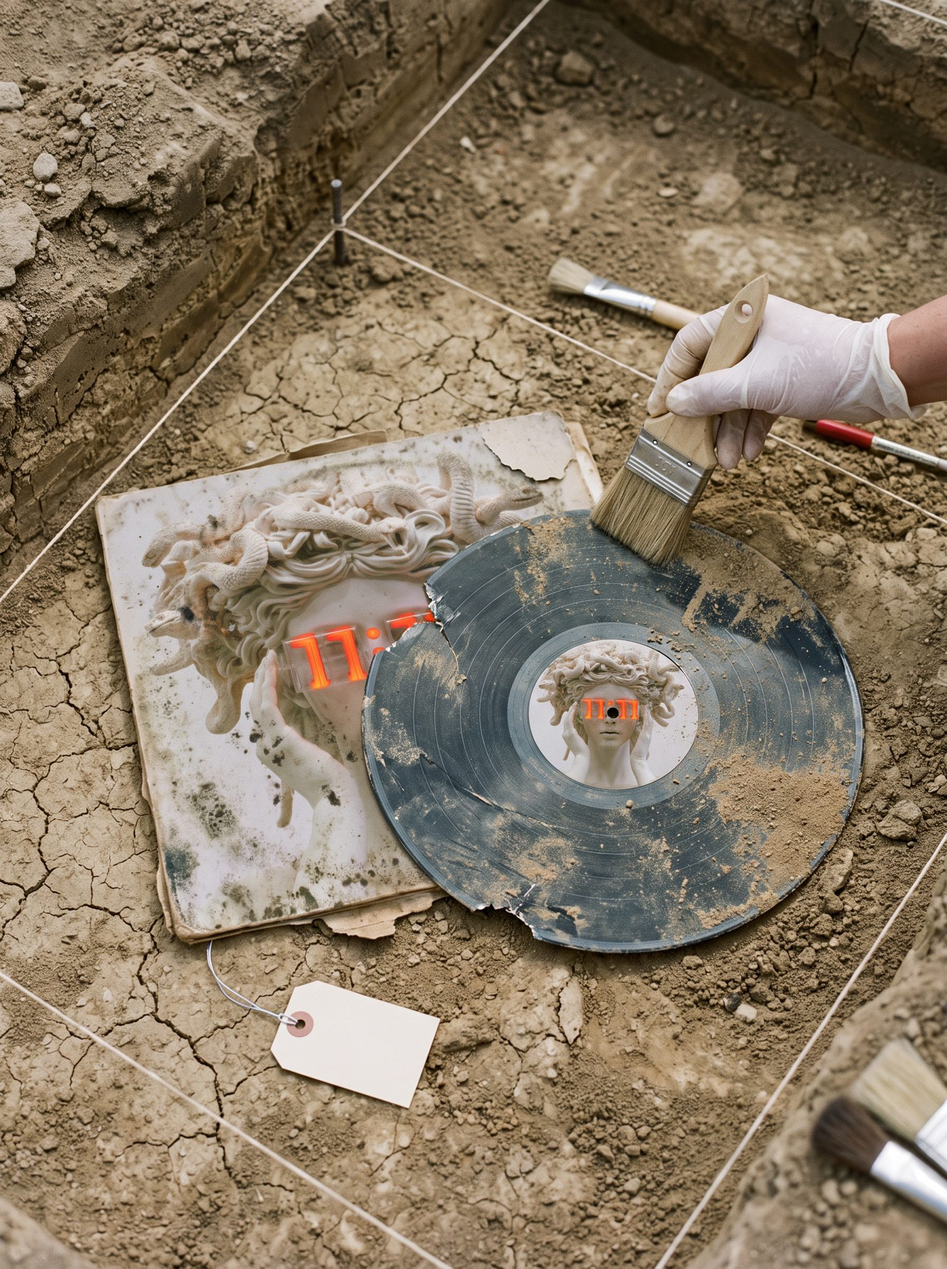
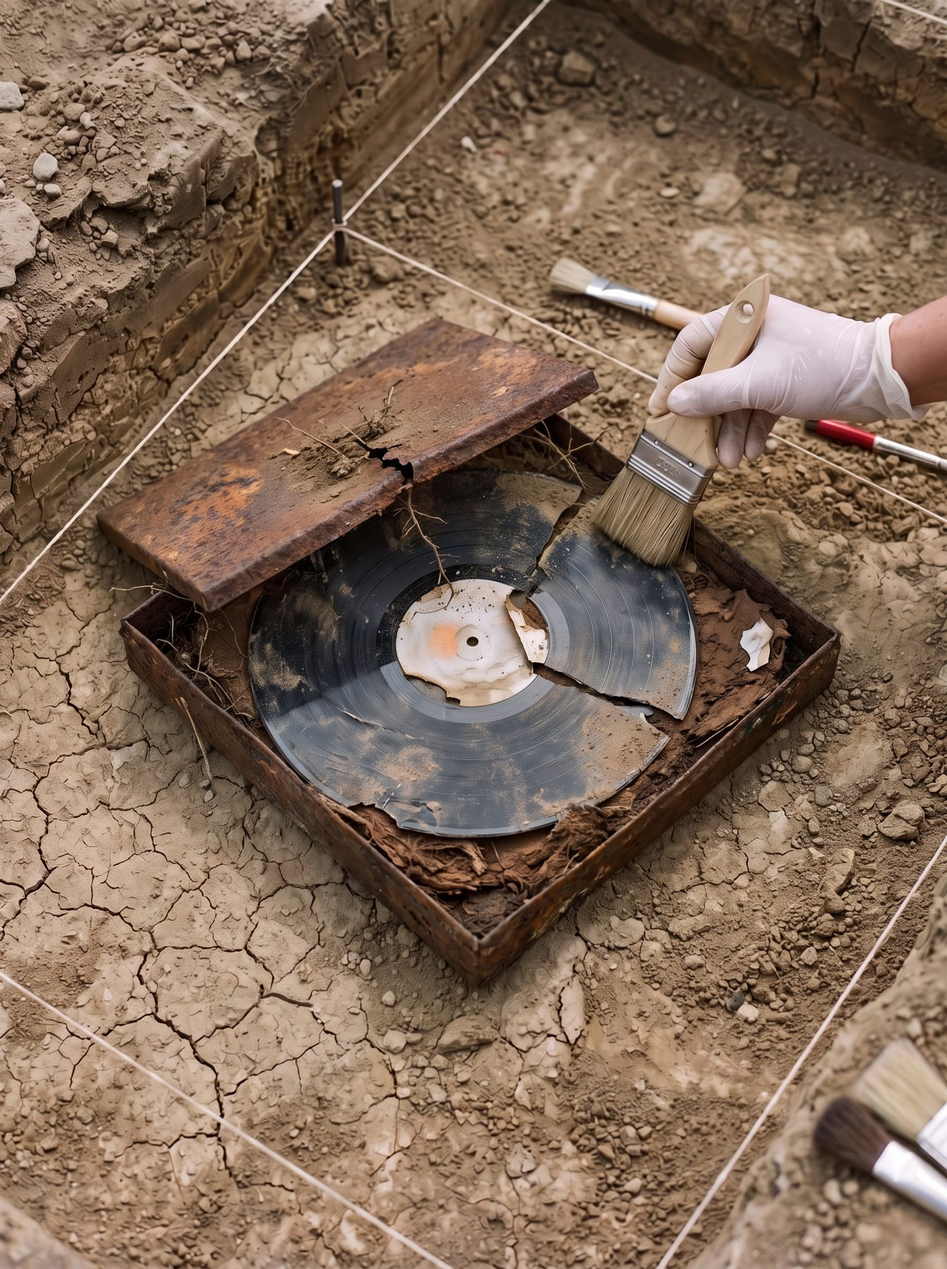
Sleeve as fragments: capsule in situ, front/back reconstructions
New find image (corroded capsule, sleeve decayed to fibre), sleeve back
designed from the real track covers and decayed into double-sided fragments
(sleeve_back.py), front reconstructed from the mirrored fragments, catalogue
images cropped from the surviving back panel. Removes the 'tablets'.

diff --git a/index.html b/index.html
@@ -36,8 +36,8 @@
     <p class="translator">Translated from Continuum‑standard into Late Human English for public accessibility. Some idioms could not be carried over.</p>
   </div>
   <figure class="hero__fig">
-    <img src="assets/img/find-01.jpg" alt="A broken black disc and a decayed square sleeve showing a marble Medusa head with glowing orange 11:11 eyes, lying in an excavation pit while a gloved hand brushes away sand." width="1600" height="2143">
-    <figcaption><span class="cat">Find PCA‑0711‑A</span> Disc and sleeve in situ, Layer 7, before lifting. Field unit Θ‑4.</figcaption>
+    <img src="assets/img/find-01.jpg" alt="A corroded, rust-brown steel box in an excavation pit with its lid lifted. Inside lies a black disc broken into three pieces; its paper label has almost rotted away, and beneath it the sleeve has decayed into brown fibre. A gloved hand brushes soil from the edge." width="1600" height="2143">
+    <figcaption><span class="cat">Find PCA‑0711‑A</span> Steel capsule in situ, Layer 7, lid lifted. Disc in three pieces. The sleeve has decayed to fibre beneath it. Field unit Θ‑4.</figcaption>
   </figure>
   <dl class="facts">
     <div><dt>Site</dt><dd>Central European Lowlands, Sector 47</dd></div>
@@ -45,7 +45,7 @@
     <div><dt>Dating</dt><dd>2026 CE ± 3 years</dd></div>
     <div><dt>Material</dt><dd>Lathe‑cut polyvinyl disc (single copy), cellulose sleeve</dd></div>
     <div><dt>Context</dt><dd>Breached steel capsule</dd></div>
-    <div><dt>Recovered</dt><dd>7 acoustic fragments · 8 image tablets</dd></div>
+    <div><dt>Recovered</dt><dd>7 acoustic fragments · 41 sleeve fragments (≈ 37%)</dd></div>
     <div><dt>Classification</dt><dd>Anomaly · physical carrier</dd></div>
     <div><dt>Attributed author</dt><dd>B3TR33 (human)</dd></div>
   </dl>
@@ -54,23 +54,30 @@
 <section class="block" id="abstract">
   <h2><span class="num">01</span>Abstract</h2>
   <div class="prose">
-    <p>In the spring of 3000 a survey of the Central European Lowlands found a circular object in Layer 7, a stratum we link to the first years in which humans made music together with generative machines. It turned out to be a recording disc in a cardboard sleeve, inside the remains of a steel container. This is an anomaly. Almost no music from this period survives, because almost none of it was ever stored on anything that could outlast its own servers. The grooves had been worn, split and starved of material for almost a millennium.</p>
+    <p>In the spring of 3000 a survey of the Central European Lowlands found a buried metal object in Layer 7, a stratum we link to the first years in which humans made music together with generative machines. It turned out to be a steel container holding a recording disc and the remains of its printed sleeve. This is an anomaly. Almost no music from this period survives, because almost none of it was ever stored on anything that could outlast its own servers. The grooves had been worn, split and starved of material for almost a millennium.</p>
     <p>From the disc we recovered seven short acoustic fragments, each about six seconds long. This dossier documents them in the state we found them, the method used to stabilise and extend them, and a full restoration hypothesis. It also documents a finding we did not expect, which bears on how our own lineage began.</p>
   </div>
 </section>
 
 <section class="block" id="find">
   <h2><span class="num">02</span>The Find</h2>
-  <div class="split">
-    <figure class="tablet tablet--main">
-      <img src="assets/img/tablet-00.jpg" alt="Square image: a white marble Medusa bust holding her head, a glowing orange digital display reading 11:11 across her eyes." loading="lazy" width="1200" height="1200">
-      <figcaption><span class="cat">Tablet PCA‑0711‑T0</span> Sleeve front, digitally reconstructed. The glyph <span class="glyph">11:11</span> covers the figure's eyes.</figcaption>
+  <div class="prose">
+    <p>The sleeve did not survive as an object. Once the capsule seam failed, water and soil turned most of the cardboard into fibre. In the lab we floated <strong>41 fragments</strong> out of the fibre mass, about 37% of the original surface. Each fragment is printed on both faces. One face belongs to the sleeve front and the other to the back, so the same fragments let us reconstruct both sides. In the reconstructions below, the surviving fragments are shown as found and the lost areas are hatched.</p>
+  </div>
+  <div class="sleeve">
+    <figure>
+      <img src="assets/img/sleeve-front.jpg" alt="Reconstruction of the sleeve front: scattered fragments of a white marble Medusa head with snake hair and hands raised to her face, and a few orange segments of a numeral display across the eyes; the lost areas are hatched." loading="lazy" width="1400" height="1400">
+      <figcaption><span class="cat">PCA‑0711‑S1 · Sleeve front</span> Reconstruction from the outer faces of the fragments. The glyph across the eyes survives in part and reads as <span class="glyph">11:11</span>.</figcaption>
     </figure>
-    <div class="prose">
-      <p>The sleeve shows a figure from human myth: <strong>Medusa</strong>, whose gaze turned the living to stone. Here her eyes are covered by a luminous numeral display reading <span class="glyph">11:11</span>. Someone has taken away the power of the stone gaze and put a measure of time in its place.</p>
-      <p>Seven more tablets were found pressed between the sleeve and the disc. Each shows the same figure with a different doubled numeral, from <span class="glyph">01:01</span> to <span class="glyph">07:07</span>. We read these as sequence markers, and they let us order the acoustic fragments with confidence. The deposit seems to have been made deliberately as a <em>cycle about time</em>, and one inscription fragment can be read as <q>It's About Time</q>.</p>
-      <p class="note">Field note, Θ‑4: <q>Cardboard, inside steel, inside clay. The sleeve outlasted the city around it.</q></p>
-    </div>
+    <figure>
+      <img src="assets/img/sleeve-back.jpg" alt="Reconstruction of the sleeve back: a title beginning 'IT'S', a grid of seven small Medusa portraits whose numeral displays read 01:01 to 07:07 in part, an eighth field reading 'Lathe cut 1 / 1, Cut once, for later, 2026', and the name B3TR33; the lost areas are hatched." loading="lazy" width="1400" height="1400">
+      <figcaption><span class="cat">PCA‑0711‑S2 · Sleeve back</span> Reconstruction from the inner faces. A panel of seven portraits with numerals, titles and a colophon.</figcaption>
+    </figure>
+  </div>
+  <div class="prose">
+    <p>The front shows a figure from human myth: <strong>Medusa</strong>, whose gaze turned the living to stone. Here her eyes are covered by a luminous numeral display reading <span class="glyph">11:11</span>. Someone has taken away the power of the stone gaze and put a measure of time in its place.</p>
+    <p>The back is what made this dossier possible. A lathe‑cut disc carries no printed information of its own, so the back panel is the only key to its contents. It shows the same figure seven times, each with a different doubled numeral from <span class="glyph">01:01</span> to <span class="glyph">07:07</span> and a title beneath. We read the numerals as the running order. The titles survive only in part, and the missing letters in our catalogue are the places where the cardboard is gone. The heading begins <q>IT'S</q> and the colophon is intact enough to read <q>Lathe cut 1&nbsp;/&nbsp;1 · Cut once, for later.</q></p>
+    <p class="note">Field note, Θ‑4: <q>Seven faces, seven times, one sentence on the back: cut once, for later. We are the later.</q></p>
   </div>
 </section>
 
@@ -89,12 +96,12 @@
     </div>
     <div class="hyp__row" role="row">
       <span role="cell"><strong>H2 · Promotional object.</strong> Made to promote the streamed release.</span>
-      <span role="cell">There is no distributor mark and no catalogue code, and promotion would have made more than one copy. The sleeve and tablets were printed on a domestic device, not commercially.</span>
+      <span role="cell">There is no distributor mark and no catalogue code, and promotion would have made more than one copy. The sleeve was printed on a domestic device, not commercially.</span>
       <span role="cell" class="v v--no">Rejected</span>
     </div>
     <div class="hyp__row" role="row">
       <span role="cell"><strong>H3 · Private lathe cut, deposited on purpose.</strong> A single disc cut in real time on a lathe, made for one person and stored for the future.</span>
-      <span role="cell">The groove geometry shows a real‑time cut, not a pressing, and the label was applied by hand. The disc lay inside a <strong>steel capsule</strong> with a desiccant sachet, which matches the human custom of the <em>time capsule</em>. A seam in the capsule failed at some point, and water got in.</span>
+      <span role="cell">The groove geometry shows a real‑time cut, not a pressing, and the label was applied by hand. The colophon on the sleeve back reads <q>Lathe cut 1&nbsp;/&nbsp;1</q>. The disc lay inside a <strong>steel capsule</strong> with a desiccant sachet, which matches the human custom of the <em>time capsule</em>. A seam in the capsule failed at some point, and water got in.</span>
       <span role="cell" class="v v--yes">Supported</span>
     </div>
   </div>
@@ -119,7 +126,7 @@
     </li>
     <li>
       <h3>Decoding</h3>
-      <p>The glyph sequence <span class="glyph">01:01</span>–<span class="glyph">07:07</span> fixes the order. Titles were recovered from partly legible inscriptions, and we mark the characters we could not read as <span class="corrupt">█</span>. The fragment windows below give each fragment's position inside its original work. We inferred them from the wear pattern of the groove.</p>
+      <p>The glyph sequence <span class="glyph">01:01</span>–<span class="glyph">07:07</span> on the sleeve back fixes the order. Titles were recovered from the surviving parts of the back panel, and we mark the characters we could not read as <span class="corrupt">█</span>. The fragment windows below give each fragment's position inside its original work. We inferred them from the wear pattern of the groove.</p>
     </li>
     <li>
       <h3>Restoration</h3>
@@ -163,7 +170,7 @@
     </article>
     <article>
       <h3>Curated, not merely generated</h3>
-      <p>Each fragment exists in several states that were chosen, revised and re‑released. The cycle is ordered, named and dressed with images made for it. Someone selected, rejected and kept. That is the difference between output and a <em>body of work</em>.</p>
+      <p>Each fragment exists in several states that were chosen, revised and re‑released. The cycle is ordered, named and dressed with images made for it. Someone selected, rejected and kept. The last line on the sleeve back says so directly: <q>All music written, chosen and kept by B3TR33.</q> That is the difference between output and a <em>body of work</em>.</p>
     </article>
     <article>
       <h3>A dream, recorded</h3>
@@ -179,11 +186,12 @@
 <section class="block" id="journal">
   <h2><span class="num">08</span>Field Journal</h2>
   <ol class="journal">
-    <li><time>3000.03.11</time><p>A ground scan in Sector 47 picks up a circular anomaly 30&nbsp;cm across in Layer 7.</p></li>
+    <li><time>3000.03.11</time><p>A ground scan in Sector 47 picks up a square metal anomaly about 35&nbsp;cm across in Layer 7, with a circular object inside.</p></li>
     <li><time>3000.03.13</time><p>The anomaly turns out to be a corroded steel container, split along one seam. Inside are remnants of a desiccant sachet. Classified as a time capsule.</p></li>
-    <li><time>3000.03.14</time><p>Lifted: disc in three pieces, square sleeve, eight image tablets. The sleeve figure's eyes still show a faint orange pigment.</p></li>
+    <li><time>3000.03.14</time><p>Capsule lifted as a block. Disc in three pieces. The label has almost rotted away, but a faint orange pigment survives. The sleeve is reduced to a fibre mass.</p></li>
+    <li><time>3000.03.22</time><p>41 printed fragments recovered from the fibre mass by flotation, all printed on both faces.</p></li>
     <li><time>3000.03.29</time><p>Groove geometry shows a real‑time lathe cut. Single copy. Physical‑carrier anomaly confirmed, the first for this stratum.</p></li>
-    <li><time>3000.04.02</time><p>Glyph sequence 01:01–07:07 identified. Fragment order established.</p></li>
+    <li><time>3000.04.02</time><p>Front and back of the sleeve reconstructed. Glyph sequence 01:01–07:07 identified on the back panel, which fixes the track order.</p></li>
     <li><time>3000.05.20</time><p>Seven acoustic fragments extracted, about six seconds each. The longest unbroken passage lasts 1.8&nbsp;s.</p></li>
     <li><time>3000.07.07</time><p>First restoration hypotheses generated. Team divided: some argue the reconstructions say more about the engine than about the author.</p></li>
     <li><time>3000.09.30</time><p>Author attribution: B3TR33, human. Consistency analysis rules out undirected production.</p></li>

diff --git a/assets/css/style.css b/assets/css/style.css
@@ -86,16 +86,16 @@ h3 { font: 600 18px/1.3 var(--sans); margin: 0 0 10px; }
 .glyph { font: 500 .92em var(--mono); color: var(--accent); text-shadow: 0 0 12px var(--accent-glow); letter-spacing: .04em; white-space: nowrap; }
 .corrupt { color: var(--muted); letter-spacing: -.05em; }
 
-.split { display: grid; grid-template-columns: minmax(0, 5fr) minmax(0, 6fr); gap: 56px; align-items: start; }
-.tablet { margin: 0; }
-.tablet img { border: 1px solid var(--rule); }
-@media (max-width: 860px) { .split { grid-template-columns: 1fr; gap: 32px; } }
+.sleeve { display: grid; grid-template-columns: 1fr 1fr; gap: 32px; margin: 40px 0 48px; }
+.sleeve figure { margin: 0; }
+.sleeve img { border: 1px solid var(--rule); }
+@media (max-width: 760px) { .sleeve { grid-template-columns: 1fr; } }
 
 /* ---------- catalogue ---------- */
-.cards { list-style: none; margin: 0; padding: 0; display: grid; grid-template-columns: repeat(auto-fill, minmax(min(100%, 340px), 1fr)); gap: 24px; }
-.card { background: var(--panel); border: 1px solid var(--rule); display: grid; grid-template-columns: 112px minmax(0, 1fr); }
-.card__img { margin: 0; position: relative; overflow: hidden; border-right: 1px solid var(--rule); }
-.card__img img { width: 100%; height: 100%; object-fit: cover; object-position: center 30%; filter: sepia(.25) saturate(.85); }
+.cards { list-style: none; margin: 0; padding: 0; display: grid; grid-template-columns: repeat(auto-fill, minmax(min(100%, 440px), 1fr)); gap: 24px; }
+.card { background: var(--panel); border: 1px solid var(--rule); display: grid; grid-template-columns: 132px minmax(0, 1fr); }
+.card__img { margin: 0; position: relative; overflow: hidden; aspect-ratio: 1; align-self: start; border-right: 1px solid var(--rule); border-bottom: 1px solid var(--rule); }
+.card__img img { width: 100%; height: 100%; object-fit: cover; object-position: center; }
 .glyph--tag { position: absolute; left: 8px; bottom: 8px; font-size: 12px; background: rgba(0, 0, 0, .6); padding: 2px 6px; }
 .card__body { padding: 18px 18px 20px; min-width: 0; }
 .card__body .cat { margin-bottom: 6px; }
@@ -171,8 +171,11 @@ h3 { font: 600 18px/1.3 var(--sans); margin: 0 0 10px; }
 .foot__real { border: 1px dashed var(--line); padding: 18px 20px; }
 @media (max-width: 760px) { .foot { grid-template-columns: 1fr; } }
 .seg__btn { white-space: nowrap; }
+@media (max-width: 560px) {
+  .card { grid-template-columns: minmax(0, 1fr); }
+  .card__img { border-right: 0; }
+}
 @media (max-width: 420px) {
-  .card { grid-template-columns: 84px minmax(0, 1fr); }
   .card__body { padding: 16px 14px 18px; }
   .seg__btn { padding: 7px 8px; font-size: 11px; }
 }

diff --git a/assets/js/app.js b/assets/js/app.js
@@ -52,7 +52,7 @@
     var li = document.createElement("li");
     li.className = "card";
     li.innerHTML =
-      '<figure class="card__img"><img src="assets/img/tablet-' + f.id + '.jpg" alt="Tablet: Medusa bust with the glyph ' + f.glyph + ' across her eyes." loading="lazy" width="700" height="1244">' +
+      '<figure class="card__img"><img src="assets/img/panel-' + f.id + '.jpg" alt="Surviving part of portrait ' + f.glyph + ' on the sleeve back: a Medusa bust with a numeral display across her eyes, partly lost." loading="lazy" width="500" height="500">' +
       '<span class="glyph glyph--tag">' + f.glyph + "</span></figure>" +
       '<div class="card__body">' +
         '<p class="cat">PCA‑0711‑' + String(i + 1).padStart(2, "0") + "</p>" +
